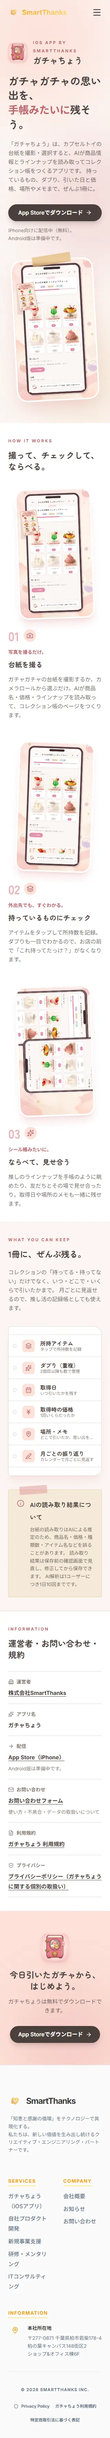
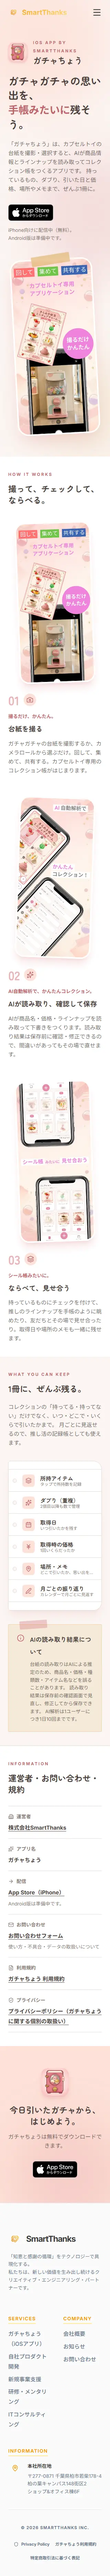
feat: ガチャちょうLPの画像をApp Store掲載画像1.0.1へ差し替え、App Store導線を公式バッジに変更
- ユーザー提供の gacha-cho_1.0.1_page1〜3 を WebP 化して Hero / 3ステップに使用
- Apple 公式 App Store バッジ（JP / Black lockup / SVG）を無改変で配置
- 画像の見出しに合わせて3ステップ文言を調整（保存前の確認・修正を明記）
- 旧 screen-*.webp を削除、レビューmd とLPスクリーンショットを更新

本番 deploy は未実施。

Changed region(s): [[0.0, 0.0, 1.0, 0.9993], [0.875, 0.2811, 0.9062, 0.3123]]

diff --git a/src/pages/Gachacho.tsx b/src/pages/Gachacho.tsx
@@ -21,34 +21,39 @@ import useCanonical from '../hooks/useCanonical.ts';
 // OAuth 同意画面・App Store と同じアプリ名。表記ゆれを起こさないため定数にする
 const APP_NAME = 'ガチャちょう';
 const APP_STORE_URL = 'https://apps.apple.com/jp/app/id6798359468';
+// Apple 公式バッジ（JP / Black lockup）。Apple のガイドラインに従い、改変せず最小高さ 40px と余白を確保して使う
+const APP_STORE_BADGE = '/gachacho/app-store-badge-jp.svg';
+// App Store 掲載画像（version 1.0.1）。ストア用の構成画像をそのまま使う
+const STORE_IMAGE_WIDTH = 720;
+const STORE_IMAGE_HEIGHT = 1558;
 
 const STEPS = [
   {
     no: '01',
     title: '台紙を撮る',
-    lead: '写真を撮るだけ。',
-    body: 'ガチャガチャの台紙を撮影するか、カメラロールから選ぶだけ。AIが商品名・価格・ラインナップを読み取って、コレクション帳のページをつくります。',
-    image: '/gachacho/screen-photo-ai.webp',
-    alt: `${APP_NAME}で台紙を読み取り、ラインナップが並んだコレクション帳の画面`,
+    lead: '撮るだけ、かんたん。',
+    body: 'ガチャガチャの台紙を撮影するか、カメラロールから選ぶだけ。回して、集めて、共有する。カプセルトイ専用のコレクション帳がはじまります。',
+    image: '/gachacho/store-01-capture.webp',
+    alt: `${APP_NAME}でカプセルトイの台紙を撮影している画面。「回して・集めて・共有する」「撮るだけかんたん」`,
     icon: <Camera size={20} />,
   },
   {
     no: '02',
-    title: '持っているものにチェック',
-    lead: '外出先でも、すぐわかる。',
-    body: 'アイテムをタップして所持数を記録。ダブりも一目でわかるので、お店の前で「これ持ってたっけ？」がなくなります。',
-    image: '/gachacho/screen-check-items.webp',
-    alt: `${APP_NAME}のコレクション画面で、所持アイテムと所持数を確認している様子`,
-    icon: <Layers size={20} />,
+    title: 'AIが読み取り、確認して保存',
+    lead: 'AI自動解析で、かんたんコレクション。',
+    body: 'AIが商品名・価格・ラインナップを読み取って下書きをつくります。読み取り結果は保存前に確認・修正できるので、間違いがあってもその場で直せます。',
+    image: '/gachacho/store-02-ai-collection.webp',
+    alt: `${APP_NAME}のAI解析結果を確認・編集している画面。「AI自動解析でかんたんコレクション」`,
+    icon: <Sparkles size={20} />,
   },
   {
     no: '03',
     title: 'ならべて、見せ合う',
     lead: 'シール帳みたいに。',
-    body: '推しのラインナップを手帳のように眺めたり、友だちとその場で見せ合ったり。取得日や場所のメモも一緒に残せます。',
-    image: '/gachacho/screen-show-together.webp',
-    alt: `${APP_NAME}のコレクション帳を2台のiPhoneで見せ合っている様子`,
-    icon: <Sparkles size={20} />,
+    body: '持っているものにチェックを付けて、推しのラインナップを手帳のように眺めたり、友だちとその場で見せ合ったり。取得日や場所のメモも一緒に残せます。',
+    image: '/gachacho/store-03-show-together.webp',
+    alt: `${APP_NAME}のコレクション画面。「シール帳みたいに見せ合おう」`,
+    icon: <Layers size={20} />,
   },
 ];
 
@@ -124,10 +129,15 @@ const Gachacho = () => {
                   href={APP_STORE_URL}
                   target="_blank"
                   rel="noopener noreferrer"
-                  className="btn bg-gachacho-ink text-white shadow-lg shadow-gachacho-ink/20 hover:-translate-y-0.5 hover:shadow-xl inline-flex items-center justify-center gap-2 text-center whitespace-nowrap shrink-0"
+                  className="inline-block shrink-0 p-3 -m-3 transition-transform hover:-translate-y-0.5"
                 >
-                  App Storeでダウンロード
-                  <ArrowRight size={18} aria-hidden="true" />
+                  <img
+                    src={APP_STORE_BADGE}
+                    alt="App Storeでダウンロード"
+                    width={163}
+                    height={60}
+                    className="h-12 md:h-[60px] w-auto"
+                  />
                 </a>
                 <p className="text-sm text-gachacho-mute leading-relaxed">
                   iPhone向けに配信中（無料）。
@@ -150,10 +160,10 @@ const Gachacho = () => {
                   className="absolute -top-3 left-1/2 -translate-x-1/2 rotate-[-6deg] w-28 h-7 bg-gachacho-gold/50 backdrop-blur-sm z-10 rounded-sm"
                 />
                 <img
-                  src="/gachacho/screen-photo-ai.webp"
+                  src={STEPS[0].image}
                   alt={STEPS[0].alt}
-                  width={720}
-                  height={1255}
+                  width={STORE_IMAGE_WIDTH}
+                  height={STORE_IMAGE_HEIGHT}
                   fetchPriority="high"
                   className="w-full h-auto rounded-[2rem] shadow-2xl shadow-gachacho-rose/30 border-4 border-white"
                 />
@@ -187,8 +197,8 @@ const Gachacho = () => {
                     <img
                       src={step.image}
                       alt={step.alt}
-                      width={720}
-                      height={1255}
+                      width={STORE_IMAGE_WIDTH}
+                      height={STORE_IMAGE_HEIGHT}
                       loading="lazy"
                       className="w-full h-auto rounded-[1.75rem] shadow-xl shadow-gachacho-rose/20 border-4 border-white"
                     />
@@ -397,10 +407,16 @@ const Gachacho = () => {
               href={APP_STORE_URL}
               target="_blank"
               rel="noopener noreferrer"
-              className="btn bg-gachacho-ink text-white shadow-lg shadow-gachacho-ink/20 hover:-translate-y-0.5 hover:shadow-xl inline-flex items-center justify-center gap-2 whitespace-nowrap"
+              className="inline-block p-3 -m-3 transition-transform hover:-translate-y-0.5"
             >
-              App Storeでダウンロード
-              <ArrowRight size={18} aria-hidden="true" />
+              <img
+                src={APP_STORE_BADGE}
+                alt="App Storeでダウンロード"
+                width={163}
+                height={60}
+                loading="lazy"
+                className="h-12 md:h-[60px] w-auto"
+              />
             </a>
           </motion.div>
         </div>
